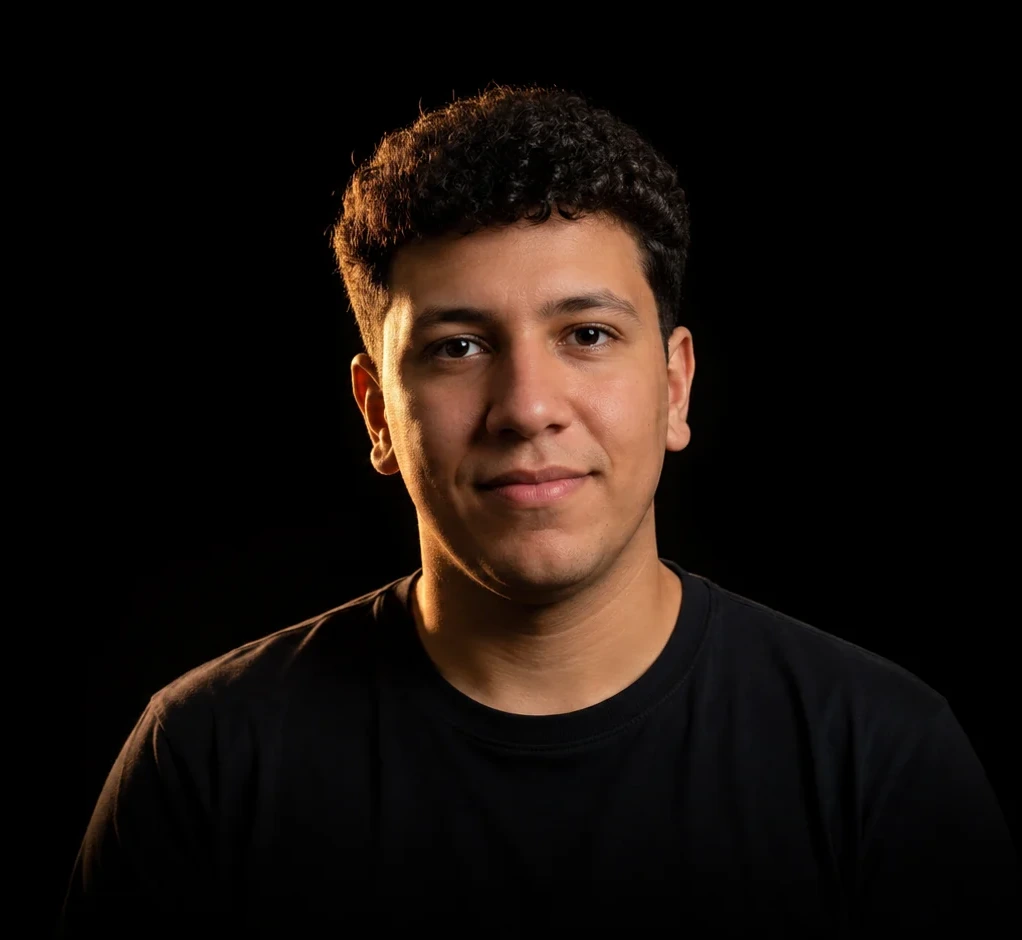
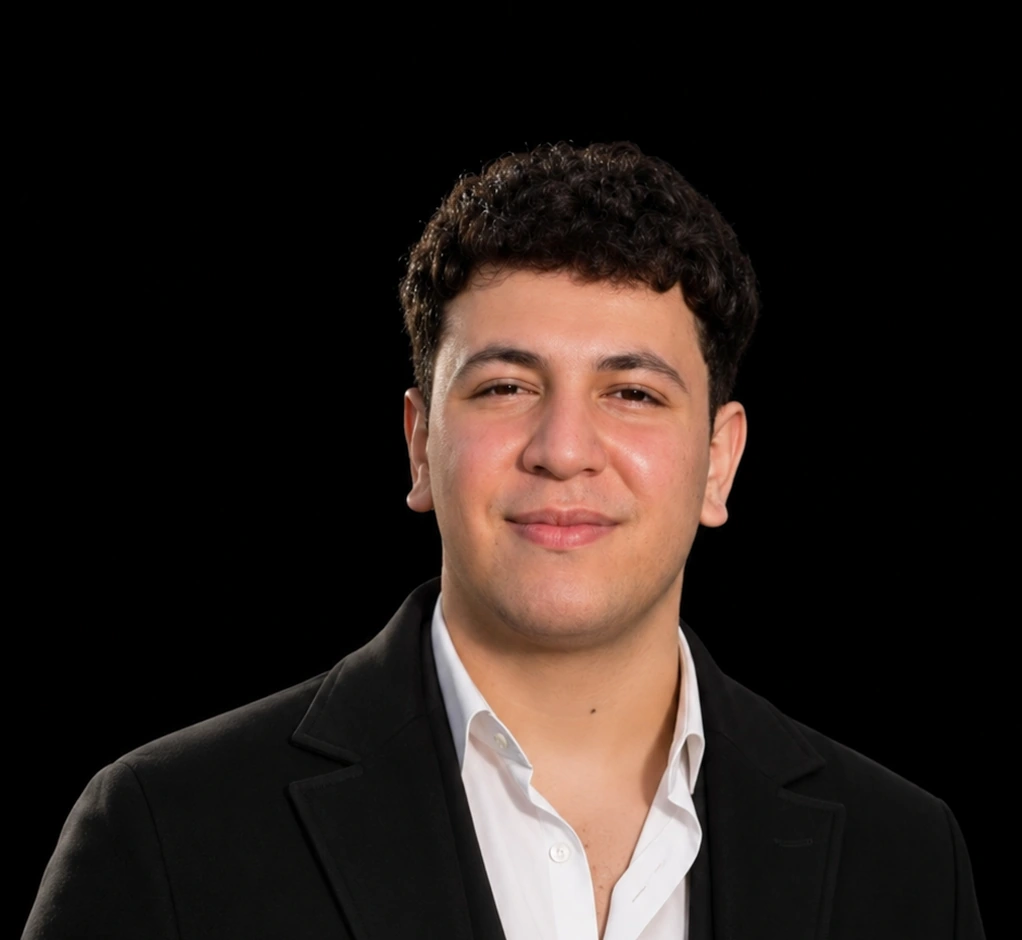
Add files via upload

diff --git a/assets/css/portfolio.css b/assets/css/portfolio.css
@@ -3791,3 +3791,30 @@ html,body {
     max-height:calc(100svh - 185px)!important;
   }
 }
+
+/* Mobile-only portrait: show the suit and keep the desktop layout unchanged. */
+@media (max-width:770px) {
+  .hero-reference-photo img,
+  html[dir="rtl"] .hero-reference-photo img,
+  html[dir="ltr"] .hero-reference-photo img {
+    content: url("../images/zeyad-mobile-hero.webp") !important;
+    object-fit: contain !important;
+    object-position: center bottom !important;
+    width: 100% !important;
+    height: 100% !important;
+  }
+}
+
+/* V17 — mobile portrait only: subtly wider shoulders and soft lower fade.
+   Desktop and all other sections remain unchanged. */
+@media (max-width:770px) {
+  .hero-reference-photo, html[dir="rtl"] .hero-reference-photo, html[dir="ltr"] .hero-reference-photo {
+    overflow: hidden !important;
+  }
+  .hero-reference-photo img, html[dir="rtl"] .hero-reference-photo img, html[dir="ltr"] .hero-reference-photo img {
+    transform: scale(1.10) !important;
+    transform-origin: center 67% !important;
+    -webkit-mask-image: linear-gradient(to bottom, #000 0%, #000 67%, rgba(0,0,0,.92) 76%, rgba(0,0,0,.55) 89%, transparent 100%) !important;
+    mask-image: linear-gradient(to bottom, #000 0%, #000 67%, rgba(0,0,0,.92) 76%, rgba(0,0,0,.55) 89%, transparent 100%) !important;
+  }
+}
